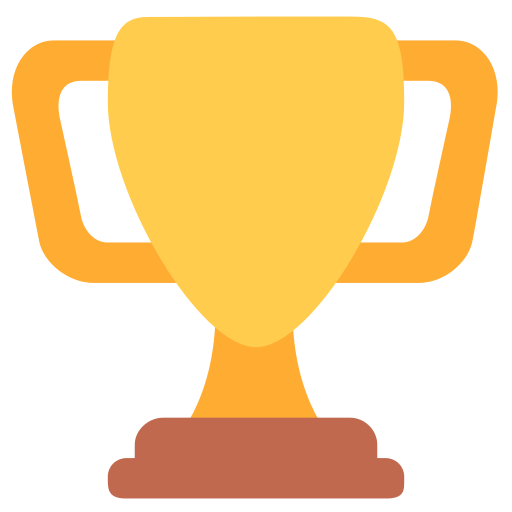
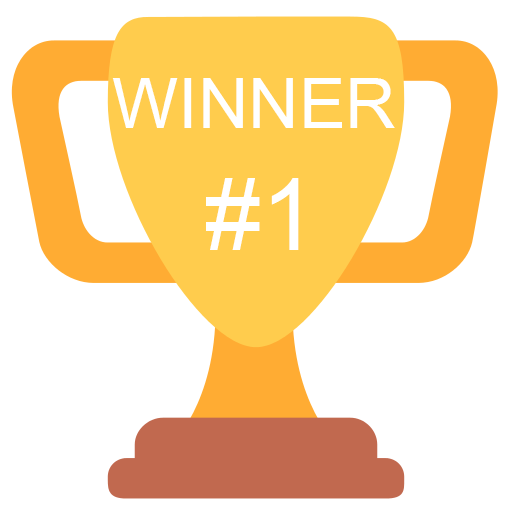
winner and losing page layouts

Changed region(s): [[0.2188, 0.125, 0.7812, 0.25], [0.4062, 0.3438, 0.5938, 0.5]]

diff --git a/index.html b/index.html
@@ -24,10 +24,25 @@
     </div>
 
     <div class="container" id="game-board">
-        <canvas id="canvas" width="1500" height="650">
-
+        <!-- <img src="/images/logo.png" alt=""> -->
+        <canvas class="container" id="canvas" width="1500" height="650">
         </canvas>
+        <div class="container" id="win-page">
+            <img id="winner-cup" src="/images/winnerCup.png" alt="">
+            <h1>YOU WON!!</h1>
+            <p class="text-center">Congratulations! You stole the eggs before the T-Rex could catch you!</p>
+            <button class="btn btn-lg btn-dark">Play Again</button>
+        </div>
+        <div class="container" id="lose-page">
+            <img src="/images/loser.gif" alt="">
+            <h1>YOU LOST!</h1>
+            <p>Do you want to try again?</p>
+            <button class="btn btn-lg btn-dark">Play Again</button>
+
+        </div>
     </div>
+
+
 
 
 

diff --git a/styles/style.css b/styles/style.css
@@ -1,3 +1,7 @@
+body {
+    background-color: #e9edc9;
+}
+
 #welcome-page {
     display: none;
     /* display: flex; */
@@ -17,9 +21,49 @@
 }
 
 
+#game-board {
+    /* display: none; */
+    position: relative;
+
+}
+
+h1 {
+    font-weight: bolder;
+}
+
+.container {
+    position: absolute;
+    display: flex;
+    flex-direction: column;
+    align-items: center;
+    justify-content: center;
+    height: 600px;
+    color: white;
+
+}
 
 #canvas {
     width: 100%;
+    border-radius: 60px;
     margin-top: 50px;
+    padding: 0;
 
+}
+
+#win-page {
+    display: none;
+    z-index: 1;
+    margin-top: 50px;
+    width: 500px;
+    background-color: transparent;
+    border-radius: 30px;
+}
+
+#winner-cup {
+    width: 80%;
+}
+
+#lose-page {
+    /* display: none; */
+    z-index: 1
 }
